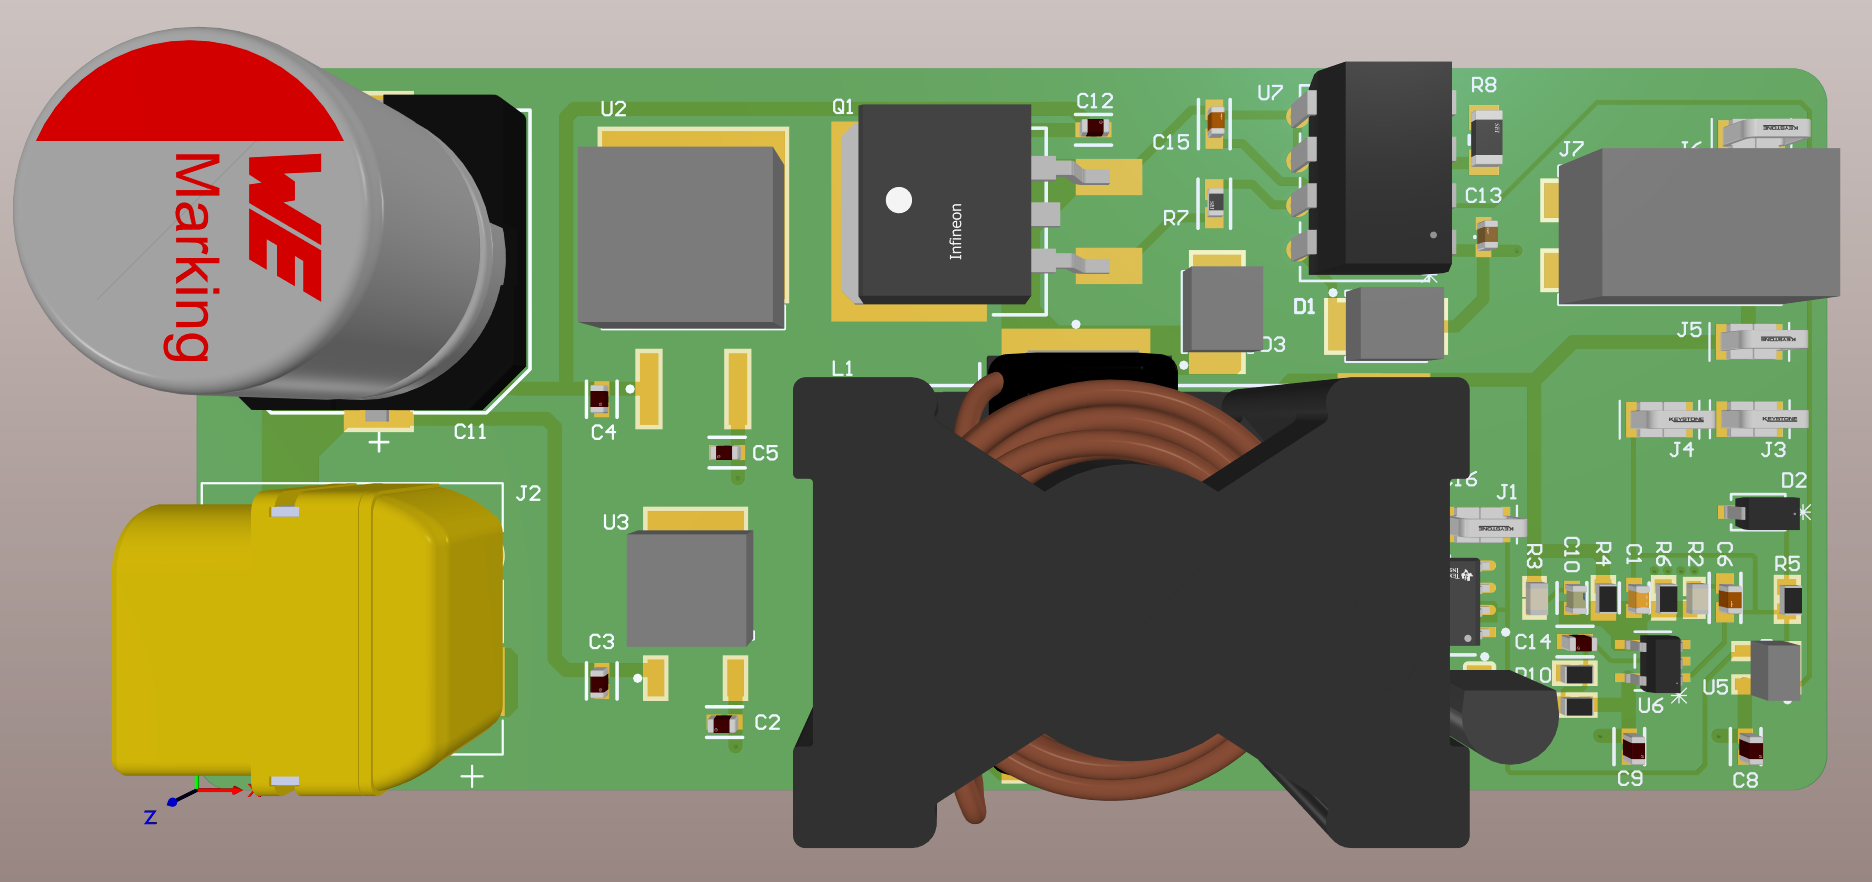
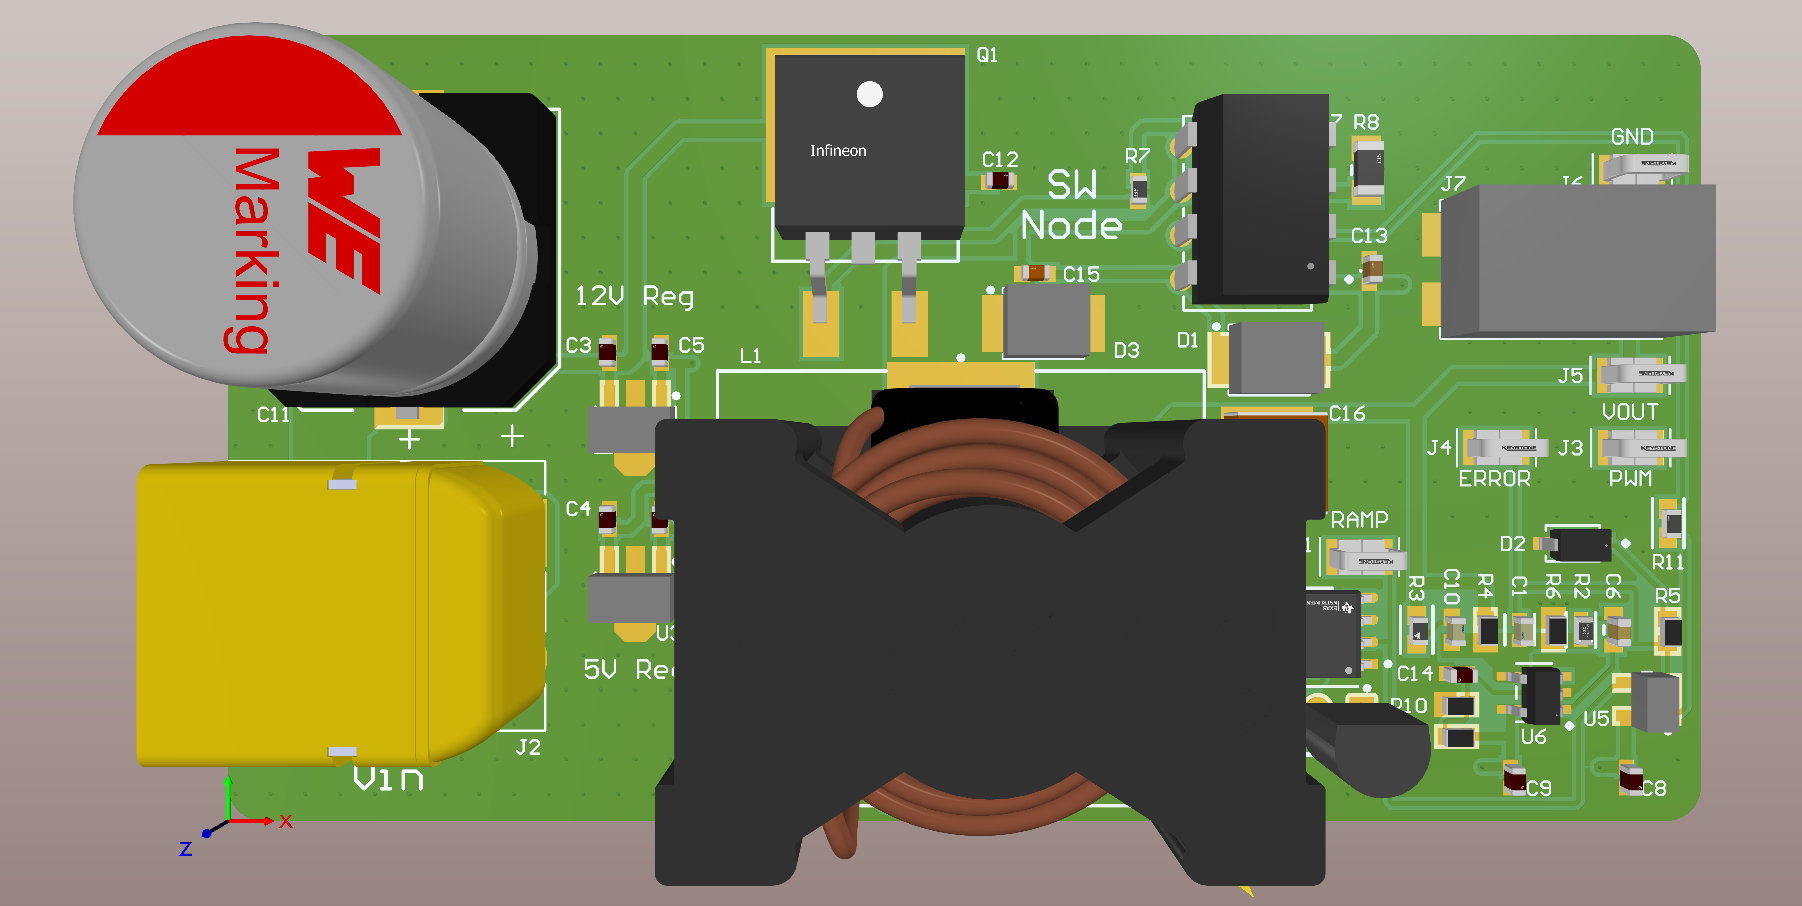
Updated buck converter project

diff --git a/src/data/content.js b/src/data/content.js
@@ -146,9 +146,10 @@ export const projects = [
     ],
     gallery: [
       { src: '/buck_3d_view.png', caption: '3D view', alt: '3D view', type: 'light', cover: true },
-      { src: '/buck_layout_rev2.png', caption: 'Initial layout', alt: 'Initial layout', type: 'light', cover: true },
+      { src: '/buck_layout_rev3.png', caption: 'Initial layout', alt: 'Initial layout', type: 'light', cover: true },
       { src: '/buck_power_stage.png', caption: 'Power stage schematic', alt: 'Power stage', type: 'light', cover: true },
       { src: '/buck_control_stage.png', caption: 'Control stage schematic', alt: 'Control stage', type: 'light', cover: true},
+      { src: '/bode_plots.png', caption: 'Compensator Bode plots', alt: 'Bode plots', type: 'light', cover: true },
       { src: '/buck_25V.png', caption: '25.2 V soft-start', alt: '25.2 V closed loop sim', type: 'dark', wide: true},
       //{ src: '/buck_20V.png', caption: '20 V soft-start', alt: '20 V closed loop sim', type: 'dark', wide: true},
       { src: '/buck_18V.png', caption: '18 V soft-start', alt: '18 V closed loop sim', type: 'dark', wide: true},
